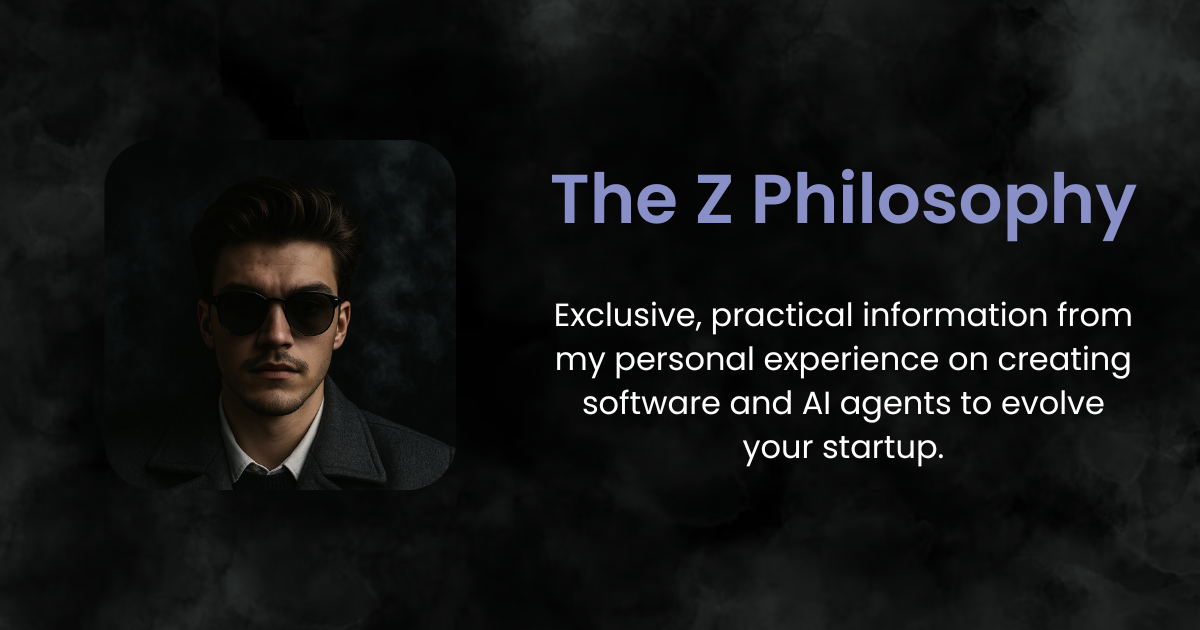
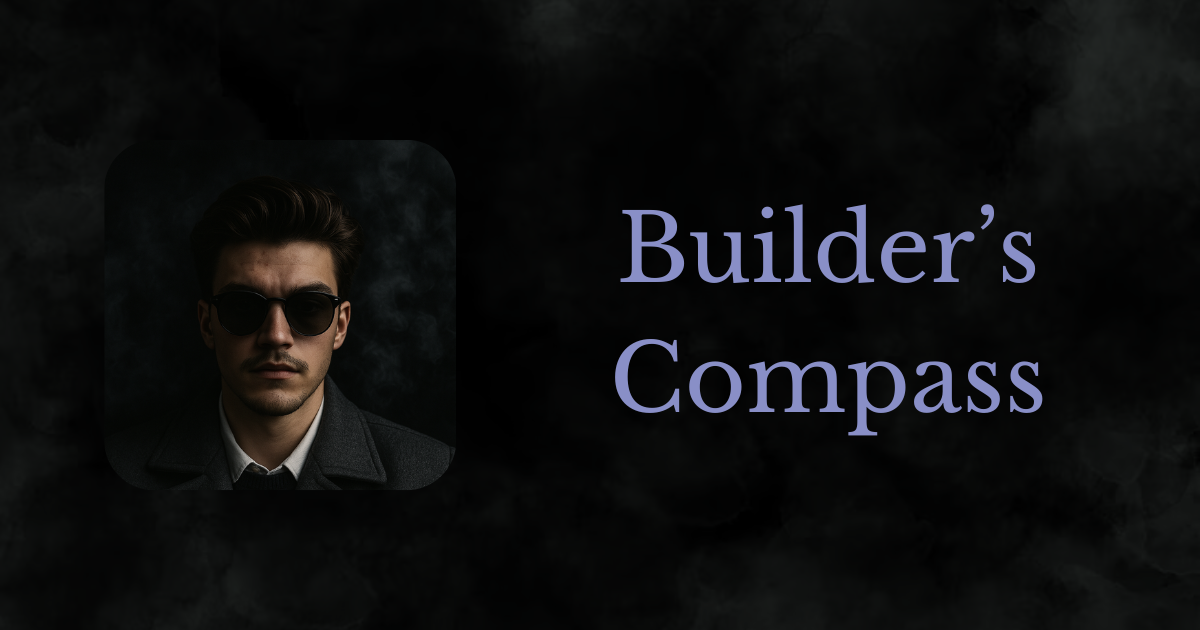
Fixed up newsletter ambiguity

Changed region(s): [[0.4625, 0.4825, 0.9558, 0.754], [0.4625, 0.2714, 0.9558, 0.4524]]

diff --git a/src/pages/newsletter.js b/src/pages/newsletter.js
@@ -35,14 +35,14 @@ export default function Newsletter() {
         <>
         <Head>
             <meta property="og:title" content="Join My Newsletter" />
-            <meta property="og:description" content="Exclusive information and tips regarding software development, marketing, and the philosophy behind it all." />
+            <meta property="og:description" content="Real stories, actionable tactics, and mindset shifts to help you build profitable products. Become the founder you aspire to be." />
             <meta property="og:image" content="https://zachredder.com/og-newsletter.png" />
             <meta property="og:url" content="https://zachredder.com/newsletter" />
             <meta name="twitter:card" content="summary_large_image" />
             <meta name="twitter:title" content="Join My Newsletter" />
             <meta
                 name="twitter:description"
-                content="Exclusive information and tips regarding software development, marketing, and the philosophy behind it all."
+                content="Real stories, actionable tactics, and mindset shifts to help you build profitable products. Become the founder you aspire to be."
             />
             <meta
                 name="twitter:image"
@@ -53,15 +53,15 @@ export default function Newsletter() {
             <Navbar />
             <div className="newsletter-container">
                 <div className="newsletter-content">
-                    <h1>The Z Philosophy</h1>
+                    <h1>Builder's Compass</h1>
                     {isSubmitted ? (
                         <div className="success-message">
-                            <h2>Thank you for subscribing!</h2>
+                            <h2>Thanks for subscribing!</h2>
                         </div>
                     ) : (
                         <div className="subscription-container">
-                            <h2>For Software Entrepreneurs</h2>
-                            <p>Exclusive, practical information from my personal experience on creating software and AI agents to evolve your startup.</p>
+                            <h2>Stay Aligned and Build Smarter</h2>
+                            <p>Real stories, actionable tactics, and mindset shifts to help you build profitable products. Become the founder you aspire to be.</p>
                             <form onSubmit={handleSubmit} className="subscription-form">
                                 <input
                                     type="email"
@@ -71,7 +71,7 @@ export default function Newsletter() {
                                     required
                                 />
                                 <button type="submit" disabled={isSubmitting}>
-                                    {isSubmitting ? "Subscribing..." : "Subscribe"}
+                                    {isSubmitting ? "Locking You In..." : "Subscribe"}
                                 </button>
                             </form>
                         </div>

diff --git a/functions/src/index.ts b/functions/src/index.ts
@@ -35,36 +35,36 @@ onDocumentCreated("newsletterList/{userId}", async (event) => {
   await admin.firestore().collection("mail").add({
     to: [email],
     message: {
-      subject: "You're in.",
+      subject: "You're officially aboard Builder’s Compass.",
       text: `Hey ${firstName},
 
-Thanks for signing up for The Z Philosophy, I'm pumped to have you aboard.
+Thanks for signing up for Builder's Compass, I'm pumped to have you aboard.
 
 Here’s what you can expect:
+    • Real stories from my experience of building products (the wins *and* fails)
     • Insightful tips and deep dives into software development
-    • Smart strategies on marketing your work
-    • A little philosophy to keep your mind sharp and your process meaningful
+    • Frameworks for staying aligned while building businesses
+  
+You’re officially on the journey. Excited to build alongside you.
 
 Talk soon,
     Zach`,
       html: `
-        <div style="font-family: sans-serif; line-height: 1.5;">
-          <h2>Welcome to <em>The Z Philosophy</em>!</h2>
-          <p>Hey ${firstName},</p>
-          <p>Thanks for signing up to my newsletter, 
-          I’m pumped to have you aboard.</p>
-          <p>Here’s what you can expect:</p>
-          <ul>
-            <li>Insightful tips and deep dives into 
-            <strong>software development</strong></li>
-            <li>Smart strategies for 
-            <strong>marketing</strong> your work</li>
-            <li>A little <strong>philosophy</strong>
-             to keep things meaningful</li>
-          </ul>
-          <p>Glad to have you on this journey.<br/>
-          <br/>Talk soon,<br/>Zach</p>
-        </div>
+        <div style="font-family: sans-serif; line-height: 1.5; max-width: 600px; margin: auto;">
+        <h2 style="color: #333;">Welcome to <em>Builder's Compass</em>!</h2>
+        <p>Hey ${firstName},</p>
+        <p>Thanks for signing up — I’m pumped to have you aboard.</p>
+        <p>Here’s what you can expect:</p>
+        <ul>
+          <li><strong>Real stories</strong> from building products (the wins <em>and</em> fails)</li>
+          <li><strong>Actionable tips and frameworks</strong> for software development</li>
+          <li><strong>Deep dives</strong> into staying aligned while building real businesses</li>
+        </ul>
+        <p>You’re officially on the journey.<br/>
+        Excited to build alongside you.<br/><br/>
+        Talk soon,<br/>
+        Zach</p>
+      </div>
       `,
     },
   });

diff --git a/src/functions/firebaseFunctions.js b/src/functions/firebaseFunctions.js
@@ -8,7 +8,7 @@ export async function storeFormData(name, email, message) {
         const querySnapshot = await getDocs(q);
 
         if (!querySnapshot.empty) {
-            console.log("Email already exists in the database.");
+           // console.log("Email already exists in the database.");
             return; // Exit the function if the email already exists
         }
 
@@ -20,9 +20,8 @@ export async function storeFormData(name, email, message) {
             timestamp: new Date()
         });
 
-        console.log("Document written with ID: ", docRef.id);
     } catch (e) {
-        console.error("Error adding document: ", e);
+      //  console.error("Error adding document: ", e);
     }
 }
 
@@ -33,7 +32,7 @@ export async function addToNewsletter(email) {
         const querySnapshot = await getDocs(q);
 
         if (!querySnapshot.empty) {
-            console.log("Email already exists in the newsletter list.");
+            //console.log("Email already exists in the newsletter list.");
             return; // Exit the function if the email already exists
         }
 
@@ -43,8 +42,8 @@ export async function addToNewsletter(email) {
             timestamp: new Date()
         });
 
-        console.log("Added to newsletter list with ID: ", docRef.id);
+        //console.log("Added to newsletter list with ID: ", docRef.id);
     } catch (e) {
-        console.error("Error adding to newsletter list: ", e);
+       // console.error("Error adding to newsletter list: ", e);
     }
 }
